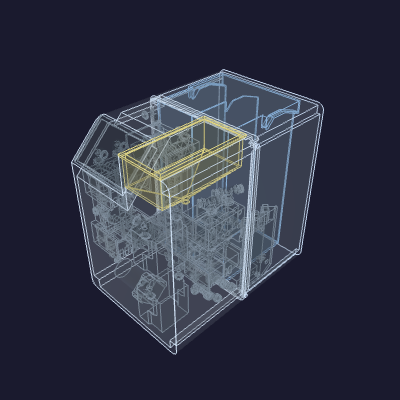
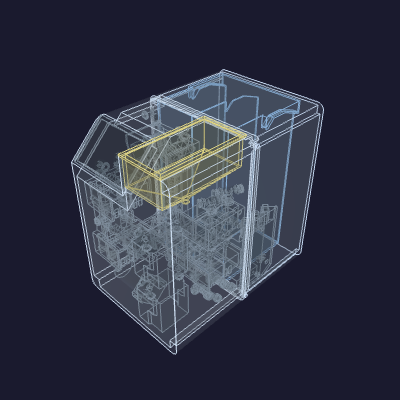
lite: lower bag-circuit out of the seated display; re-nest pumps; add display check
The bag was raised against the display HOUSING back (shell), but the seated
Waveshare PCB juts deeper into the box than the shell cavity, so the raised bag
punched ~2600 mm^3 into the actual display. Lower it: BAG_Z_LIFT 32 -> 12 (top
238, clearing the display by ~1.7 mm). The bag's air gaps drop with it, so the
upper pump follows: PUMP_UPPER_ZMIN 114 -> 93 to keep its motor in the (now
lower) mid gap. Lower motor and -X travel unchanged.

Add _report_display_clear() to the assembly so content-vs-display is checked on
every regen — the shell check alone missed this. Now CLEAR at 0.0.

Changed region(s): [[0.21, 0.36, 0.42, 0.69], [0.42, 0.51, 0.48, 0.57], [0.39, 0.69, 0.42, 0.72]]

diff --git a/pie-in-the-sky/lite/enclosure-assembly/_contents.py b/pie-in-the-sky/lite/enclosure-assembly/_contents.py
@@ -84,13 +84,13 @@ PUMP_FRONT_Y = 32.0        # pump front face (and box front edge): the front clu
                            # back until the bib/nozzle backs nearly meet the reservoir front
 PUMP_HEAD_X = 164.0        # the pump heads' +X face — pulled -X so the motor cylinders nest
                            # into the bag tray, motor tips ~1 mm shy of the first bag fitting
-PUMP_UPPER_ZMIN = 114.0    # upper pump height: its motor lands in the bag tray's mid air gap
-                           # (~z120-170), as the lower pump's motor runs the floor gap below it
+PUMP_UPPER_ZMIN = 93.0     # upper pump height: its motor lands in the bag tray's mid air gap
+                           # (~z100-150), as the lower pump's motor runs the floor gap below it
 STACK_TO_PUMP_GAP = 1.0    # gap from the pump backs to the short-tray stack front (Y)
 BAG_SOURCE_GAP = 1.0       # gap from the bag-circuit back to the source-select front (Y)
-BAG_Z_LIFT = 32.0          # bag-circuit raised this far above the floor lift — its top just
-                           # clears the display housing back, opening a floor channel beneath
-                           # it for the pump motors to reach under
+BAG_Z_LIFT = 12.0          # bag-circuit raised this far above the floor lift — as high as the
+                           # seated display (its PCB juts into the box) allows, opening a floor
+                           # channel beneath it for the lower pump motor to run under
 # The short trays (bib, nozzle) STACK into one footprint at the back-right, front
 # against the pump backs. Each tray is linear — tees at one end, ELBOWS at the
 # other. bib stands elbows-up (rot +90 about Y); nozzle is flipped end-for-end

diff --git a/pie-in-the-sky/lite/enclosure-assembly/enclosure_assembly.py b/pie-in-the-sky/lite/enclosure-assembly/enclosure_assembly.py
@@ -68,11 +68,25 @@ def build():
     return assy
 
 
+def _report_display_clear(placed, display):
+    """Content must clear the SEATED display, not just the shell housing — the
+    Waveshare PCB juts into the box behind the facet, deeper than the cavity, so a
+    content-vs-shell check alone misses a tray driven up into it."""
+    worst, who = 0.0, None
+    for name, (shape, _c) in placed.items():
+        v = shape.intersect(display).Volume()
+        if v > worst:
+            worst, who = v, name
+    tag = "CLEAR" if worst < 1.0 else f"CLASH — {who}"
+    print(f"  content vs display: {worst:.1f} mm³  ({tag})")
+
+
 def main():
     assy = build()
     out = _here.parent / "enclosure-assembly.step"
     export_assembly(assy, str(out))
     print(f"-> {out.name}")
+    _report_display_clear(contents.build(), _placed_display())
 
 
 if __name__ == "__main__":
